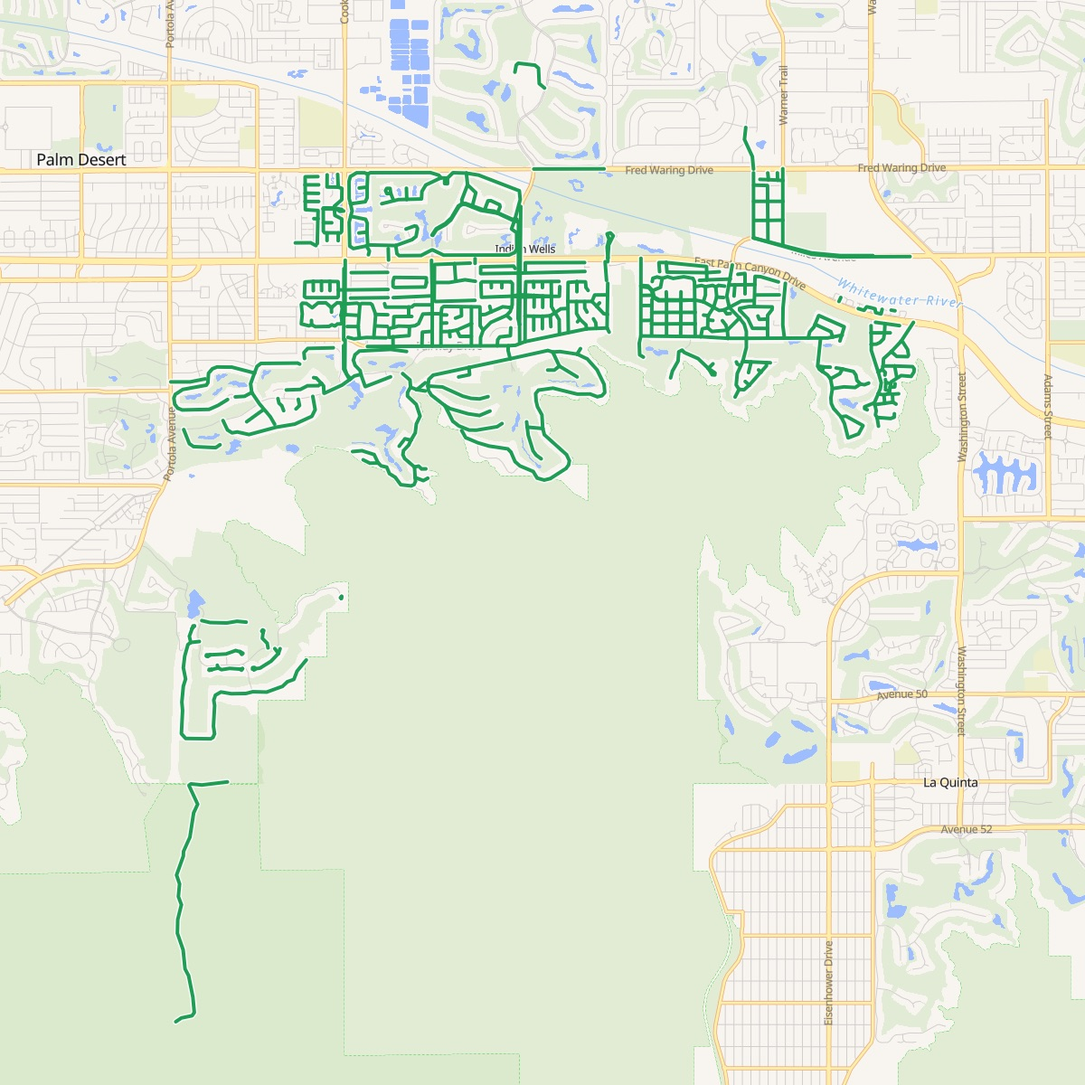
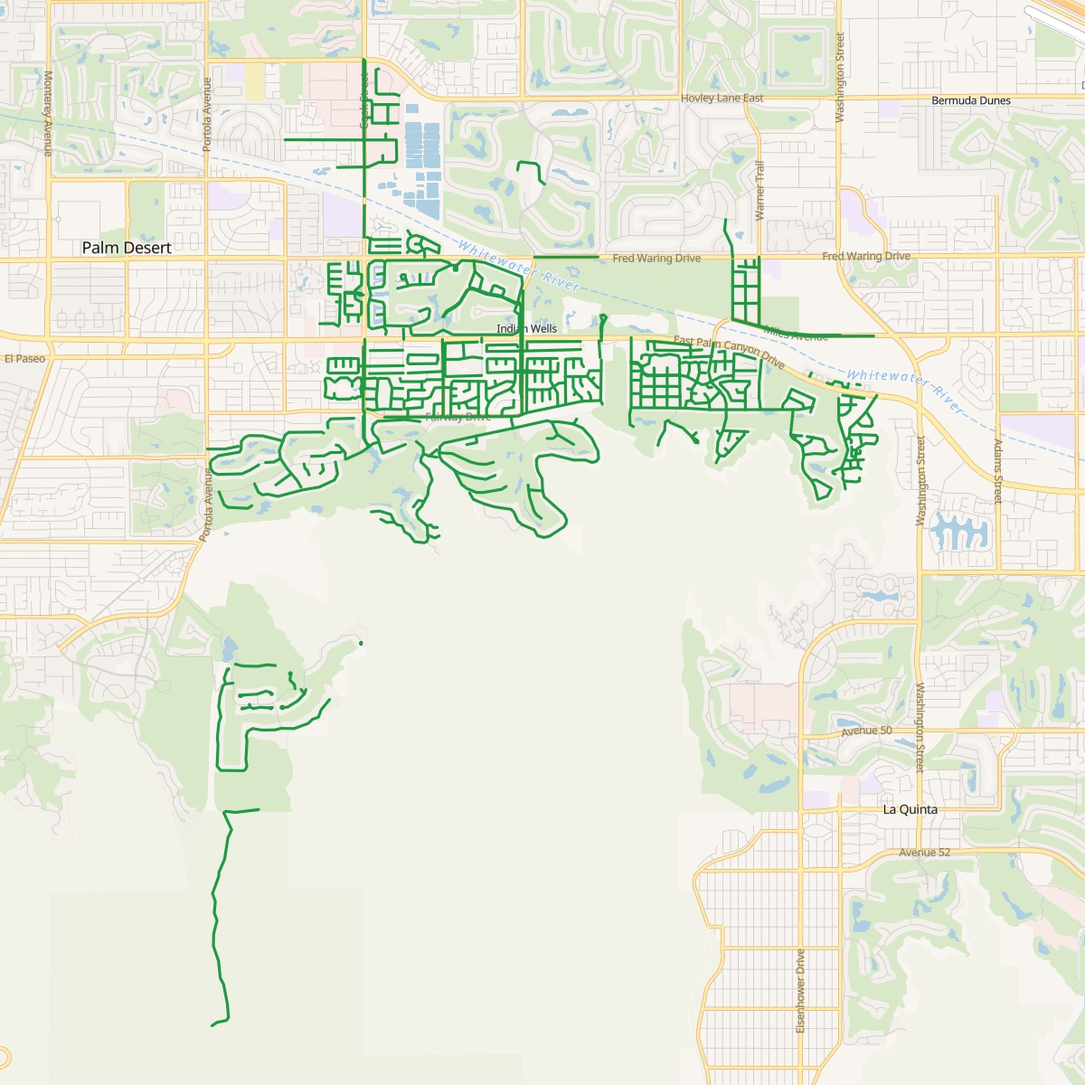
Rancho Mirage and Indian Wells: new carrier routes, report pages, maps
Rancho Mirage: 92270-C009, C014, C015, C019, C020, C021, C027 (4,976 homes).
Indian Wells: all 7 routes in 92210 plus 92211-C050 (4,925 homes).

diff --git a/data/routes.js b/data/routes.js
@@ -2,15 +2,15 @@
    The USPS carrier routes behind each postcard, in the format the 9x12 Method print team and planner use (ZIP-route, e.g. 92260-C008).
    status: "live" = card is booking now; "waitlist" = planned card shown as "Join waitlist" on the coverage map.
    homes = homes-only count (order these as "Homes only"); doors = every-door count (homes + businesses).
-   Counts are from USPS EDDM data pulled 2026-11-11. USPS updates counts over time, so re-check in the planner before each order.
+   Counts are from USPS EDDM data pulled 2026-11-11 (Indio and La Quinta 2026-11-18, Rancho Mirage and Indian Wells 2026-11-27). USPS updates counts over time, so re-check in the planner before each order.
    Read by assets/admin-routes.js (Spotlight HQ > Mail routes). One card per line. */
 window.CVS_ROUTES = [
   {"id": "el-paseo", "name": "Palm Desert - El Paseo Area", "city": "Palm Desert", "status": "live", "homes": 4968, "doors": 5354, "postOffices": ["Palm Desert"], "routes": [{"r": "92260-C008", "homes": 186, "doors": 526, "po": "Palm Desert"}, {"r": "92260-C009", "homes": 695, "doors": 697, "po": "Palm Desert"}, {"r": "92260-C012", "homes": 914, "doors": 917, "po": "Palm Desert"}, {"r": "92260-C019", "homes": 521, "doors": 524, "po": "Palm Desert"}, {"r": "92260-C030", "homes": 760, "doors": 763, "po": "Palm Desert"}, {"r": "92260-C031", "homes": 698, "doors": 706, "po": "Palm Desert"}, {"r": "92260-C061", "homes": 670, "doors": 672, "po": "Palm Desert"}, {"r": "92260-C067", "homes": 524, "doors": 549, "po": "Palm Desert"}]},
   {"id": "sun-city-palm-desert", "name": "Palm Desert - Sun City", "city": "Palm Desert", "status": "live", "homes": 4829, "doors": 4876, "postOffices": ["Palm Desert"], "routes": [{"r": "92211-R080", "homes": 708, "doors": 708, "po": "Palm Desert"}, {"r": "92211-R081", "homes": 683, "doors": 683, "po": "Palm Desert"}, {"r": "92211-R082", "homes": 603, "doors": 603, "po": "Palm Desert"}, {"r": "92211-R083", "homes": 586, "doors": 586, "po": "Palm Desert"}, {"r": "92211-R086", "homes": 507, "doors": 510, "po": "Palm Desert"}, {"r": "92211-R087", "homes": 540, "doors": 584, "po": "Palm Desert"}, {"r": "92211-R088", "homes": 581, "doors": 581, "po": "Palm Desert"}, {"r": "92211-R089", "homes": 621, "doors": 621, "po": "Palm Desert"}]},
   {"id": "palm-springs", "name": "Palm Springs", "city": "Palm Springs", "status": "live", "homes": 4979, "doors": 5196, "postOffices": ["Palm Springs"], "routes": [{"r": "92262-C005", "homes": 744, "doors": 794, "po": "Palm Springs"}, {"r": "92262-C012", "homes": 137, "doors": 137, "po": "Palm Springs"}, {"r": "92262-C028", "homes": 914, "doors": 958, "po": "Palm Springs"}, {"r": "92262-C070", "homes": 674, "doors": 783, "po": "Palm Springs"}, {"r": "92264-C006", "homes": 851, "doors": 853, "po": "Palm Springs"}, {"r": "92264-C022", "homes": 836, "doors": 846, "po": "Palm Springs"}, {"r": "92264-C029", "homes": 823, "doors": 825, "po": "Palm Springs"}]},
   {"id": "cathedral-city", "name": "Cathedral City", "city": "Cathedral City", "status": "live", "homes": 4993, "doors": 5253, "postOffices": ["Cathedral City"], "routes": [{"r": "92234-C038", "homes": 585, "doors": 781, "po": "Cathedral City"}, {"r": "92234-C041", "homes": 684, "doors": 684, "po": "Cathedral City"}, {"r": "92234-C059", "homes": 925, "doors": 926, "po": "Cathedral City"}, {"r": "92234-C063", "homes": 948, "doors": 951, "po": "Cathedral City"}, {"r": "92234-C072", "homes": 729, "doors": 755, "po": "Cathedral City"}, {"r": "92234-C074", "homes": 1122, "doors": 1156, "po": "Cathedral City"}]},
-  {"id": "rancho-mirage", "name": "Rancho Mirage", "city": "Rancho Mirage", "status": "live", "homes": 4976, "doors": 5156, "postOffices": ["Rancho Mirage"], "routes": [{"r": "92270-C005", "homes": 652, "doors": 655, "po": "Rancho Mirage"}, {"r": "92270-C008", "homes": 755, "doors": 760, "po": "Rancho Mirage"}, {"r": "92270-C009", "homes": 603, "doors": 607, "po": "Rancho Mirage"}, {"r": "92270-C012", "homes": 474, "doors": 486, "po": "Rancho Mirage"}, {"r": "92270-C014", "homes": 508, "doors": 510, "po": "Rancho Mirage"}, {"r": "92270-C019", "homes": 710, "doors": 764, "po": "Rancho Mirage"}, {"r": "92270-C020", "homes": 780, "doors": 780, "po": "Rancho Mirage"}, {"r": "92270-C026", "homes": 494, "doors": 594, "po": "Rancho Mirage"}]},
-  {"id": "indian-wells", "name": "Indian Wells", "city": "Indian Wells", "status": "live", "homes": 4461, "doors": 4598, "postOffices": ["Palm Desert"], "routes": [{"r": "92210-C007", "homes": 103, "doors": 129, "po": "Palm Desert"}, {"r": "92210-C010", "homes": 738, "doors": 740, "po": "Palm Desert"}, {"r": "92210-C038", "homes": 1172, "doors": 1177, "po": "Palm Desert"}, {"r": "92210-C039", "homes": 589, "doors": 590, "po": "Palm Desert"}, {"r": "92210-C040", "homes": 550, "doors": 551, "po": "Palm Desert"}, {"r": "92210-C059", "homes": 618, "doors": 716, "po": "Palm Desert"}, {"r": "92210-C063", "homes": 691, "doors": 695, "po": "Palm Desert"}]},
+  {"id": "rancho-mirage", "name": "Rancho Mirage", "city": "Rancho Mirage", "status": "live", "homes": 4976, "doors": 5061, "postOffices": ["Rancho Mirage"], "routes": [{"r": "92270-C009", "homes": 603, "doors": 607, "po": "Rancho Mirage"}, {"r": "92270-C014", "homes": 508, "doors": 510, "po": "Rancho Mirage"}, {"r": "92270-C015", "homes": 632, "doors": 651, "po": "Rancho Mirage"}, {"r": "92270-C019", "homes": 711, "doors": 765, "po": "Rancho Mirage"}, {"r": "92270-C020", "homes": 780, "doors": 780, "po": "Rancho Mirage"}, {"r": "92270-C021", "homes": 906, "doors": 911, "po": "Rancho Mirage"}, {"r": "92270-C027", "homes": 836, "doors": 837, "po": "Rancho Mirage"}]},
+  {"id": "indian-wells", "name": "Indian Wells", "city": "Indian Wells", "status": "live", "homes": 4925, "doors": 5393, "postOffices": ["Palm Desert"], "routes": [{"r": "92210-C007", "homes": 103, "doors": 129, "po": "Palm Desert"}, {"r": "92210-C010", "homes": 738, "doors": 740, "po": "Palm Desert"}, {"r": "92210-C038", "homes": 1173, "doors": 1178, "po": "Palm Desert"}, {"r": "92210-C039", "homes": 589, "doors": 590, "po": "Palm Desert"}, {"r": "92210-C040", "homes": 544, "doors": 545, "po": "Palm Desert"}, {"r": "92210-C059", "homes": 604, "doors": 702, "po": "Palm Desert"}, {"r": "92210-C063", "homes": 690, "doors": 694, "po": "Palm Desert"}, {"r": "92211-C050", "homes": 484, "doors": 815, "po": "Palm Desert"}]},
   {"id": "la-quinta", "name": "La Quinta", "city": "La Quinta", "status": "live", "homes": 4916, "doors": 4958, "postOffices": ["La Quinta"], "routes": [{"r": "92253-C044", "homes": 764, "doors": 768, "po": "La Quinta"}, {"r": "92253-C046", "homes": 1269, "doors": 1270, "po": "La Quinta"}, {"r": "92253-C010", "homes": 784, "doors": 802, "po": "La Quinta"}, {"r": "92253-C006", "homes": 429, "doors": 430, "po": "La Quinta"}, {"r": "92253-C004", "homes": 925, "doors": 938, "po": "La Quinta"}, {"r": "92253-R002", "homes": 745, "doors": 750, "po": "La Quinta"}]},
   {"id": "la-quinta-pga-west", "name": "La Quinta - PGA West", "city": "La Quinta", "status": "live", "homes": 4677, "doors": 4700, "postOffices": ["La Quinta"], "routes": [{"r": "92253-C002", "homes": 1121, "doors": 1125, "po": "La Quinta"}, {"r": "92253-C022", "homes": 1027, "doors": 1032, "po": "La Quinta"}, {"r": "92253-R001", "homes": 883, "doors": 886, "po": "La Quinta"}, {"r": "92253-R005", "homes": 862, "doors": 869, "po": "La Quinta"}, {"r": "92253-R004", "homes": 784, "doors": 788, "po": "La Quinta"}]},
   {"id": "indio", "name": "Indio - Sun City Shadow Hills", "city": "Indio", "status": "live", "homes": 4791, "doors": 4823, "postOffices": ["La Quinta"], "routes": [{"r": "92203-R104", "homes": 722, "doors": 722, "po": "La Quinta"}, {"r": "92203-R106", "homes": 694, "doors": 718, "po": "La Quinta"}, {"r": "92203-R108", "homes": 706, "doors": 709, "po": "La Quinta"}, {"r": "92203-R109", "homes": 938, "doors": 938, "po": "La Quinta"}, {"r": "92203-R105", "homes": 874, "doors": 879, "po": "La Quinta"}, {"r": "92203-R110", "homes": 857, "doors": 857, "po": "La Quinta"}]},

diff --git a/mailing-area-rancho-mirage.html b/mailing-area-rancho-mirage.html
@@ -25,7 +25,7 @@
 <meta name="viewport" content="width=device-width, initial-scale=1">
 <script type="text/javascript">(function(i,m,p,a,c,t){c.ire_o=p;c[p]=c[p]||function(){(c[p].a=c[p].a||[]).push(arguments)};t=a.createElement(m);var z=a.getElementsByTagName(m)[0];t.async=1;t.src=i;z.parentNode.insertBefore(t,z)})('https://utt.impactcdn.com/P-A8063333-b369-4de8-a2dd-14aeee36646f1.js','script','impactStat',document,window);impactStat('transformLinks');impactStat('trackImpression');</script>
 <title>Rancho Mirage Mailing Area Report | Coachella Valley Spotlight</title>
-<meta name="description" content="Who the Rancho Mirage Spotlight postcard would reach: 4,976 homes on 8 USPS carrier routes, income, home values and more for zip code 92270.">
+<meta name="description" content="Who the Rancho Mirage Spotlight postcard would reach: 4,976 homes on 7 USPS carrier routes, income, home values and more for zip code 92270.">
 <link rel="canonical" href="https://coachellavalleyspotlight.com/mailing-area-rancho-mirage">
 <meta property="og:url" content="https://coachellavalleyspotlight.com/mailing-area-rancho-mirage">
 <meta property="og:type" content="website">
@@ -53,14 +53,13 @@
 <a class="more" href="coverage-map?route=rancho-mirage">&larr; Back to the coverage map</a>
 <span class="eyebrow" style="margin-top:24px"><span class="stripe-mini"></span>Mailing area report &middot; Rancho Mirage</span>
 <h1>Who This Mailing <span class="grad">Would Reach.</span></h1>
-<p>8 USPS carrier routes in Rancho Mirage &middot; Zip code 92270. Established, higher-income neighborhoods where people stay put. A strong fit for home services, medical and wellness, financial advisors and restaurants.</p>
+<p>7 USPS carrier routes in Rancho Mirage &middot; Zip code 92270. One block of established, higher-income neighborhoods around Mission Hills, from Da Vall Drive to Bob Hope Drive and Country Club Drive north to Ramon Road. A strong fit for home services, medical and wellness, financial advisors and restaurants.</p>
 <p class="cov-muted" style="margin-top:8px"><b>Booking now.</b> First mailing Thu, Jan 21, 2027 (artwork due Mon, Jan 11), then Feb 18 and Mar 18. There&rsquo;s one business per category. <a href="mailing-calendar">See every date</a>.</p>
-<div class="stats" style="grid-template-columns:repeat(2,1fr);margin-top:24px"><div class="stat"><b>4,976</b><span>homes reached</span></div><div class="stat"><b>8</b><span>USPS carrier routes</span></div></div>
+<div class="stats" style="grid-template-columns:repeat(2,1fr);margin-top:24px"><div class="stat"><b>4,976</b><span>homes reached</span></div><div class="stat"><b>7</b><span>USPS carrier routes</span></div></div>
 <figure class="route-map"><img src="assets/img/routes/rancho-mirage-map.jpg" alt="Map of the Rancho Mirage mailing area, with the selected carrier routes drawn in green" width="1200" height="1200" loading="lazy"><figcaption>The selected carrier routes, drawn in green. Map: OpenFreeMap, &copy; OpenMapTiles, data &copy; OpenStreetMap contributors.</figcaption></figure>
 <h2 class="month-head"><span class="stripe-mini"></span>The households on this route</h2>
-<div class="stats" style="grid-template-columns:repeat(3,1fr)"><div class="stat"><span>Median household income</span><b style="margin-top:8px">$132K</b></div><div class="stat"><span>Median home value</span><b style="margin-top:8px">$801K</b></div><div class="stat"><span>Owner-occupied homes</span><b style="margin-top:8px">88%</b></div><div class="stat"><span>Single-family houses</span><b style="margin-top:8px">50%</b></div><div class="stat"><span>Households with kids</span><b style="margin-top:8px">7%</b></div><div class="stat"><span>Median age</span><b style="margin-top:8px">69.1</b></div></div>
-<p class="cov-muted" style="margin-top:12px;font-size:14px">Homes: USPS Every Door Direct Mail counts. Households: U.S. Census Bureau, American Community Survey 2020&ndash;2024 5-year estimates for the neighborhoods these routes run through, weighted by homes on each route. Carrier routes: 92270-C005, 92270-C008, 92270-C009, 92270-C012, 92270-C014, 92270-C019, 92270-C020, 92270-C026. Cards drop at the Rancho Mirage Post Office.</p>
-<p style="margin-top:12px"><a class="more" href="assets/reports/rancho-mirage-mailing-area-report.pdf" target="_blank" rel="noopener">Download the full report, route by route (PDF) &rarr;</a></p>
+<div class="stats" style="grid-template-columns:repeat(3,1fr)"><div class="stat"><span>Median household income</span><b style="margin-top:8px">$125K</b></div><div class="stat"><span>Median home value</span><b style="margin-top:8px">$830K</b></div><div class="stat"><span>Owner-occupied homes</span><b style="margin-top:8px">93%</b></div><div class="stat"><span>Single-family houses</span><b style="margin-top:8px">63%</b></div><div class="stat"><span>Households with kids</span><b style="margin-top:8px">3%</b></div><div class="stat"><span>Median age</span><b style="margin-top:8px">69.1</b></div></div>
+<p class="cov-muted" style="margin-top:12px;font-size:14px">Homes: USPS Every Door Direct Mail counts. Households: U.S. Census Bureau, American Community Survey 2020&ndash;2024 5-year estimates for the neighborhoods these routes run through, weighted by homes on each route. Carrier routes: 92270-C009, 92270-C014, 92270-C015, 92270-C019, 92270-C020, 92270-C021, 92270-C027. Cards drop at the Rancho Mirage Post Office.</p>
 <div class="cta-row" style="margin-top:32px"><a class="btn" href="reserve?route=rancho-mirage&amp;mail=2027-01-21">Hold my Rancho Mirage spot</a><a class="btn btn-ghost" href="tel:+17604225475">Call (760) 422-5475</a></div>
 </div></section>
 </main>

diff --git a/mailing-area-indian-wells.html b/mailing-area-indian-wells.html
@@ -25,7 +25,7 @@
 <meta name="viewport" content="width=device-width, initial-scale=1">
 <script type="text/javascript">(function(i,m,p,a,c,t){c.ire_o=p;c[p]=c[p]||function(){(c[p].a=c[p].a||[]).push(arguments)};t=a.createElement(m);var z=a.getElementsByTagName(m)[0];t.async=1;t.src=i;z.parentNode.insertBefore(t,z)})('https://utt.impactcdn.com/P-A8063333-b369-4de8-a2dd-14aeee36646f1.js','script','impactStat',document,window);impactStat('transformLinks');impactStat('trackImpression');</script>
 <title>Indian Wells Mailing Area Report | Coachella Valley Spotlight</title>
-<meta name="description" content="Who the Indian Wells Spotlight postcard would reach: 4,461 homes on 7 USPS carrier routes, income, home values and more for zip code 92210.">
+<meta name="description" content="Who the Indian Wells Spotlight postcard would reach: 4,925 homes on 8 USPS carrier routes, income, home values and more for zip codes 92210 and 92211.">
 <link rel="canonical" href="https://coachellavalleyspotlight.com/mailing-area-indian-wells">
 <meta property="og:url" content="https://coachellavalleyspotlight.com/mailing-area-indian-wells">
 <meta property="og:type" content="website">
@@ -53,14 +53,13 @@
 <a class="more" href="coverage-map?route=indian-wells">&larr; Back to the coverage map</a>
 <span class="eyebrow" style="margin-top:24px"><span class="stripe-mini"></span>Mailing area report &middot; Indian Wells</span>
 <h1>Who This Mailing <span class="grad">Would Reach.</span></h1>
-<p>7 USPS carrier routes in Indian Wells &middot; Zip code 92210. Every home in Indian Wells, one of the valley's highest-income cities. A strong fit for home services, medical and wellness, financial advisors and golf.</p>
+<p>8 USPS carrier routes &middot; Zip codes 92210 and 92211. Every home in Indian Wells, one of the valley's highest-income cities, plus the Palm Desert neighborhood along Cook Street north of Highway 111. A strong fit for home services, medical and wellness, financial advisors and golf.</p>
 <p class="cov-muted" style="margin-top:8px"><b>Booking now.</b> First mailing Thu, Jan 21, 2027 (artwork due Mon, Jan 11), then Feb 18 and Mar 18. There&rsquo;s one business per category. <a href="mailing-calendar">See every date</a>.</p>
-<div class="stats" style="grid-template-columns:repeat(2,1fr);margin-top:24px"><div class="stat"><b>4,461</b><span>homes reached</span></div><div class="stat"><b>7</b><span>USPS carrier routes</span></div></div>
+<div class="stats" style="grid-template-columns:repeat(2,1fr);margin-top:24px"><div class="stat"><b>4,925</b><span>homes reached</span></div><div class="stat"><b>8</b><span>USPS carrier routes</span></div></div>
 <figure class="route-map"><img src="assets/img/routes/indian-wells-map.jpg" alt="Map of the Indian Wells mailing area, with the selected carrier routes drawn in green" width="1200" height="1200" loading="lazy"><figcaption>The selected carrier routes, drawn in green. Map: OpenFreeMap, &copy; OpenMapTiles, data &copy; OpenStreetMap contributors.</figcaption></figure>
 <h2 class="month-head"><span class="stripe-mini"></span>The households on this route</h2>
-<div class="stats" style="grid-template-columns:repeat(3,1fr)"><div class="stat"><span>Median household income</span><b style="margin-top:8px">$168K</b></div><div class="stat"><span>Median home value</span><b style="margin-top:8px">$990K</b></div><div class="stat"><span>Owner-occupied homes</span><b style="margin-top:8px">83%</b></div><div class="stat"><span>Single-family houses</span><b style="margin-top:8px">56%</b></div><div class="stat"><span>Households with kids</span><b style="margin-top:8px">9%</b></div><div class="stat"><span>Median age</span><b style="margin-top:8px">65.5</b></div></div>
-<p class="cov-muted" style="margin-top:12px;font-size:14px">Homes: USPS Every Door Direct Mail counts. Households: U.S. Census Bureau, American Community Survey 2020&ndash;2024 5-year estimates for the neighborhoods these routes run through, weighted by homes on each route. Carrier routes: 92210-C007, 92210-C010, 92210-C038, 92210-C039, 92210-C040, 92210-C059, 92210-C063. Cards drop at the Palm Desert Post Office.</p>
-<p style="margin-top:12px"><a class="more" href="assets/reports/indian-wells-mailing-area-report.pdf" target="_blank" rel="noopener">Download the full report, route by route (PDF) &rarr;</a></p>
+<div class="stats" style="grid-template-columns:repeat(3,1fr)"><div class="stat"><span>Median household income</span><b style="margin-top:8px">$165K</b></div><div class="stat"><span>Median home value</span><b style="margin-top:8px">$1.01M</b></div><div class="stat"><span>Owner-occupied homes</span><b style="margin-top:8px">83%</b></div><div class="stat"><span>Single-family houses</span><b style="margin-top:8px">56%</b></div><div class="stat"><span>Households with kids</span><b style="margin-top:8px">9%</b></div><div class="stat"><span>Median age</span><b style="margin-top:8px">64.5</b></div></div>
+<p class="cov-muted" style="margin-top:12px;font-size:14px">Homes: USPS Every Door Direct Mail counts. Households: U.S. Census Bureau, American Community Survey 2020&ndash;2024 5-year estimates for the neighborhoods these routes run through, weighted by homes on each route. Carrier routes: 92210-C007, 92210-C010, 92210-C038, 92210-C039, 92210-C040, 92210-C059, 92210-C063, 92211-C050. Cards drop at the Palm Desert Post Office.</p>
 <div class="cta-row" style="margin-top:32px"><a class="btn" href="reserve?route=indian-wells&amp;mail=2027-01-21">Hold my Indian Wells spot</a><a class="btn btn-ghost" href="tel:+17604225475">Call (760) 422-5475</a></div>
 </div></section>
 </main>

diff --git a/data/mailings.js b/data/mailings.js
@@ -17,7 +17,7 @@ window.CVS_MAILINGS = [
   {"route":"palm-springs","name":"Palm Springs","area":"Palm Springs 92262 · 92264","homes":"4,979 homes","mail":"2027-01-21","deadline":"2027-01-11","minSold":8,"format":"9x12","minDollars":2625},
   {"route":"cathedral-city","name":"Cathedral City","area":"Cathedral City 92234","homes":"4,993 homes","mail":"2027-01-21","deadline":"2027-01-11","minSold":8,"format":"9x12","minDollars":2625},
   {"route":"rancho-mirage","name":"Rancho Mirage","area":"Rancho Mirage 92270","homes":"4,976 homes","mail":"2027-01-21","deadline":"2027-01-11","minSold":8,"format":"9x12","minDollars":2625},
-  {"route":"indian-wells","name":"Indian Wells","area":"Indian Wells 92210","homes":"4,461 homes","mail":"2027-01-21","deadline":"2027-01-11","minSold":8,"format":"9x12","minDollars":2625},
+  {"route":"indian-wells","name":"Indian Wells","area":"Indian Wells 92210","homes":"4,925 homes","mail":"2027-01-21","deadline":"2027-01-11","minSold":8,"format":"9x12","minDollars":2625},
   {"route":"la-quinta","name":"La Quinta","area":"La Quinta 92253","homes":"4,916 homes","mail":"2027-01-21","deadline":"2027-01-11","minSold":8,"format":"9x12","minDollars":2625},
   {"route":"la-quinta-pga-west","name":"La Quinta - PGA West","area":"La Quinta 92253, PGA West","homes":"4,677 homes","mail":"2027-01-21","deadline":"2027-01-11","minSold":8,"format":"9x12","minDollars":2625},
   {"route":"indio","name":"Indio - Sun City Shadow Hills","area":"Indio 92203","homes":"4,791 homes","mail":"2027-01-21","deadline":"2027-01-11","minSold":8,"format":"9x12","minDollars":2625},
@@ -28,7 +28,7 @@ window.CVS_MAILINGS = [
   {"route":"palm-springs","name":"Palm Springs","area":"Palm Springs 92262 · 92264","homes":"4,979 homes","mail":"2027-02-18","deadline":"2027-02-08","minSold":8,"format":"9x12","minDollars":2625},
   {"route":"cathedral-city","name":"Cathedral City","area":"Cathedral City 92234","homes":"4,993 homes","mail":"2027-02-18","deadline":"2027-02-08","minSold":8,"format":"9x12","minDollars":2625},
   {"route":"rancho-mirage","name":"Rancho Mirage","area":"Rancho Mirage 92270","homes":"4,976 homes","mail":"2027-02-18","deadline":"2027-02-08","minSold":8,"format":"9x12","minDollars":2625},
-  {"route":"indian-wells","name":"Indian Wells","area":"Indian Wells 92210","homes":"4,461 homes","mail":"2027-02-18","deadline":"2027-02-08","minSold":8,"format":"9x12","minDollars":2625},
+  {"route":"indian-wells","name":"Indian Wells","area":"Indian Wells 92210","homes":"4,925 homes","mail":"2027-02-18","deadline":"2027-02-08","minSold":8,"format":"9x12","minDollars":2625},
   {"route":"la-quinta","name":"La Quinta","area":"La Quinta 92253","homes":"4,916 homes","mail":"2027-02-18","deadline":"2027-02-08","minSold":8,"format":"9x12","minDollars":2625},
   {"route":"la-quinta-pga-west","name":"La Quinta - PGA West","area":"La Quinta 92253, PGA West","homes":"4,677 homes","mail":"2027-02-18","deadline":"2027-02-08","minSold":8,"format":"9x12","minDollars":2625},
   {"route":"indio","name":"Indio - Sun City Shadow Hills","area":"Indio 92203","homes":"4,791 homes","mail":"2027-02-18","deadline":"2027-02-08","minSold":8,"format":"9x12","minDollars":2625},
@@ -39,7 +39,7 @@ window.CVS_MAILINGS = [
   {"route":"palm-springs","name":"Palm Springs","area":"Palm Springs 92262 · 92264","homes":"4,979 homes","mail":"2027-03-18","deadline":"2027-03-08","minSold":8,"format":"9x12","minDollars":2625},
   {"route":"cathedral-city","name":"Cathedral City","area":"Cathedral City 92234","homes":"4,993 homes","mail":"2027-03-18","deadline":"2027-03-08","minSold":8,"format":"9x12","minDollars":2625},
   {"route":"rancho-mirage","name":"Rancho Mirage","area":"Rancho Mirage 92270","homes":"4,976 homes","mail":"2027-03-18","deadline":"2027-03-08","minSold":8,"format":"9x12","minDollars":2625},
-  {"route":"indian-wells","name":"Indian Wells","area":"Indian Wells 92210","homes":"4,461 homes","mail":"2027-03-18","deadline":"2027-03-08","minSold":8,"format":"9x12","minDollars":2625},
+  {"route":"indian-wells","name":"Indian Wells","area":"Indian Wells 92210","homes":"4,925 homes","mail":"2027-03-18","deadline":"2027-03-08","minSold":8,"format":"9x12","minDollars":2625},
   {"route":"la-quinta","name":"La Quinta","area":"La Quinta 92253","homes":"4,916 homes","mail":"2027-03-18","deadline":"2027-03-08","minSold":8,"format":"9x12","minDollars":2625},
   {"route":"la-quinta-pga-west","name":"La Quinta - PGA West","area":"La Quinta 92253, PGA West","homes":"4,677 homes","mail":"2027-03-18","deadline":"2027-03-08","minSold":8,"format":"9x12","minDollars":2625},
   {"route":"indio","name":"Indio - Sun City Shadow Hills","area":"Indio 92203","homes":"4,791 homes","mail":"2027-03-18","deadline":"2027-03-08","minSold":8,"format":"9x12","minDollars":2625},

diff --git a/coverage-map.html b/coverage-map.html
@@ -189,7 +189,7 @@
 <div class="footer-base"><span>&copy; 2026 Coachella Valley Spotlight, a brand of MoreViews Pro LLC. Made in the desert.</span><span><a href="legal#privacy">Privacy</a> &middot; <a href="legal#terms">Terms</a> &middot; <a href="legal#disclaimer">Disclaimer</a></span></div>
 </div></footer>
 <script src="data/events.js"></script><script src="data/feed-events.js"></script><script src="data/deals.js"></script><script src="data/news.js"></script><script src="data/headlines.js"></script><script src="data/directory.js"></script><script src="assets/app.js?v=20261126qr"></script>
-<script src="data/mailings.js?v=20261121fh"></script><script src="data/formats.js?v=20261122pl"></script><script src="data/hidden-routes.js?v=20261118q"></script>
+<script src="data/mailings.js?v=20261127r"></script><script src="data/formats.js?v=20261122pl"></script><script src="data/hidden-routes.js?v=20261118q"></script>
 <script>
 (function () {
   var API = "https://local-spotlight-reservations.toddstpierre.workers.dev";
@@ -201,8 +201,8 @@
     { id: "sun-city-palm-desert", name: "Palm Desert - Sun City", town: "Palm Desert", zip: "92211", x: 58, y: 42, w: 10, h: 14, area: "mailing-area-sun-city", blurb: "The 55-plus golf community north of I-10, where homeowners stay put and buy local." },
     { id: "palm-springs", name: "Palm Springs", town: "Palm Springs", zip: "92262 &middot; 92264", homes: "4,979", x: 12, y: 45, w: 10, h: 14, area: "mailing-area-palm-springs", blurb: "Seven carrier routes across Palm Springs' north end, east of downtown and the south end of town. Join the waitlist to get first pick of categories." },
     { id: "cathedral-city", name: "Cathedral City", town: "Cathedral City", zip: "92234", homes: "4,993", x: 25, y: 53, w: 9, h: 12, area: "mailing-area-cathedral-city", blurb: "Six carrier routes in Cathedral City's family neighborhoods. Join the waitlist to get first pick of categories." },
-    { id: "rancho-mirage", name: "Rancho Mirage", town: "Rancho Mirage", zip: "92270", homes: "4,976", x: 35, y: 67, w: 9, h: 12, area: "mailing-area-rancho-mirage", blurb: "Eight carrier routes in Rancho Mirage's established, higher-income neighborhoods. Join the waitlist to get first pick of categories." },
-    { id: "indian-wells", name: "Indian Wells", town: "Indian Wells", zip: "92210", homes: "4,461", x: 56, y: 63, w: 8, h: 10, area: "mailing-area-indian-wells", blurb: "Every home in Indian Wells, all seven carrier routes. Join the waitlist to get first pick of categories." },
+    { id: "rancho-mirage", name: "Rancho Mirage", town: "Rancho Mirage", zip: "92270", homes: "4,976", x: 35, y: 67, w: 9, h: 12, area: "mailing-area-rancho-mirage", blurb: "One block of Rancho Mirage from Da Vall Drive to Bob Hope Drive, Country Club Drive north to Ramon Road, around Mission Hills. Join the waitlist to get first pick of categories." },
+    { id: "indian-wells", name: "Indian Wells", town: "Indian Wells", zip: "92210 &middot; 92211", homes: "4,925", x: 56, y: 63, w: 8, h: 10, area: "mailing-area-indian-wells", blurb: "Every home in Indian Wells, plus the Palm Desert neighborhood along Cook Street north of Highway 111. Join the waitlist to get first pick of categories." },
     { id: "la-quinta", name: "La Quinta", town: "La Quinta", zip: "92253", homes: "4,916", x: 61, y: 79, w: 10, h: 13, area: "mailing-area-la-quinta", blurb: "One block of La Quinta from Washington to Jefferson, Avenue 48 to 52: gated golf communities and some of the highest-income streets in the valley." },
     { id: "la-quinta-pga-west", name: "La Quinta - PGA West", town: "La Quinta", zip: "92253", homes: "4,677", x: 74, y: 91, w: 10, h: 12, area: "mailing-area-la-quinta-pga-west", blurb: "PGA West and the gated golf communities around it, Avenue 52 to 60 between Jefferson and Monroe. The highest home values on any Spotlight card." },
     { id: "indio", name: "Indio - Sun City Shadow Hills", town: "Indio", zip: "92203", homes: "4,791", x: 78, y: 52, w: 10, h: 14, area: "mailing-area-indio", blurb: "Six carrier routes in one block of north Indio, Avenue 39 to 42, including Sun City Shadow Hills, where nearly every home is a single-family house its owner lives in." },

diff --git a/stats.html b/stats.html
@@ -194,6 +194,6 @@
 <nav class="footer-towns" aria-label="Towns"><h4>Towns</h4><ul><li><a href="city/bermuda-dunes/">Bermuda Dunes</a></li><li><a href="city/cathedral-city/">Cathedral City</a></li><li><a href="city/coachella/">Coachella</a></li><li><a href="city/desert-hot-springs/">Desert Hot Springs</a></li><li><a href="city/indian-wells/">Indian Wells</a></li><li><a href="city/indio/">Indio</a></li><li><a href="city/la-quinta/">La Quinta</a></li><li><a href="city/palm-desert/">Palm Desert</a></li><li><a href="city/palm-springs/">Palm Springs</a></li><li><a href="city/rancho-mirage/">Rancho Mirage</a></li><li><a href="city/thousand-palms/">Thousand Palms</a></li></ul></nav>
 <div class="footer-base"><span>&copy; 2026 Coachella Valley Spotlight, a brand of MoreViews Pro LLC. Made in the desert.</span><span><a href="legal#privacy">Privacy</a> &middot; <a href="legal#terms">Terms</a> &middot; <a href="legal#disclaimer">Disclaimer</a></span></div>
 </div></footer>
-<script src="data/directory.js"></script><script src="assets/app.js?v=20261126qr"></script><script src="assets/admin-owners.js?v=20261103b"></script><script src="data/mailings.js?v=20261121fh"></script><script src="data/formats.js?v=20261122pl"></script><script src="assets/admin-mailings.js?v=20261121fh"></script><script src="assets/admin-money.js?v=20261118q"></script><script src="assets/admin-signups.js?v=20261106a"></script><script src="assets/admin-backup.js?v=20261103a"></script><script src="assets/admin-submissions.js?v=20261127ls"></script><script src="data/deals.js"></script><script src="assets/admin-cockpit.js?v=20261121fh"></script><script src="assets/admin-reports.js?v=20261121op"></script><script src="assets/admin-results.js?v=20261123hq"></script><script src="data/routes.js?v=20261118q"></script><script src="assets/admin-routes.js?v=20261111a"></script><script src="assets/admin-hq.js?v=20261118q"></script><script src="assets/admin-board.js?v=20261121fh"></script><script src="assets/admin-campaigns.js?v=20261121pb"></script><script src="assets/admin-overview.js?v=20261121fh"></script><script src="assets/admin-listing-edit.js?v=20261109hq"></script><script src="assets/admin-advertisers.js?v=20261121av"></script><script src="assets/admin-nav.js?v=20261121op"></script><script src="data/qr-codes.js"></script><script src="assets/admin-qr.js?v=20261123hq"></script><script src="assets/stats-report.js?v=20261111mm"></script>
+<script src="data/directory.js"></script><script src="assets/app.js?v=20261126qr"></script><script src="assets/admin-owners.js?v=20261103b"></script><script src="data/mailings.js?v=20261127r"></script><script src="data/formats.js?v=20261122pl"></script><script src="assets/admin-mailings.js?v=20261121fh"></script><script src="assets/admin-money.js?v=20261118q"></script><script src="assets/admin-signups.js?v=20261106a"></script><script src="assets/admin-backup.js?v=20261103a"></script><script src="assets/admin-submissions.js?v=20261127ls"></script><script src="data/deals.js"></script><script src="assets/admin-cockpit.js?v=20261121fh"></script><script src="assets/admin-reports.js?v=20261121op"></script><script src="assets/admin-results.js?v=20261123hq"></script><script src="data/routes.js?v=20261127r"></script><script src="assets/admin-routes.js?v=20261111a"></script><script src="assets/admin-hq.js?v=20261118q"></script><script src="assets/admin-board.js?v=20261121fh"></script><script src="assets/admin-campaigns.js?v=20261121pb"></script><script src="assets/admin-overview.js?v=20261121fh"></script><script src="assets/admin-listing-edit.js?v=20261109hq"></script><script src="assets/admin-advertisers.js?v=20261121av"></script><script src="assets/admin-nav.js?v=20261121op"></script><script src="data/qr-codes.js"></script><script src="assets/admin-qr.js?v=20261123hq"></script><script src="assets/stats-report.js?v=20261111mm"></script>
 </body>
 </html>

diff --git a/owner.html b/owner.html
@@ -53,6 +53,6 @@
 <nav class="footer-towns" aria-label="Towns"><h4>Towns</h4><ul><li><a href="city/bermuda-dunes/">Bermuda Dunes</a></li><li><a href="city/cathedral-city/">Cathedral City</a></li><li><a href="city/coachella/">Coachella</a></li><li><a href="city/desert-hot-springs/">Desert Hot Springs</a></li><li><a href="city/indian-wells/">Indian Wells</a></li><li><a href="city/indio/">Indio</a></li><li><a href="city/la-quinta/">La Quinta</a></li><li><a href="city/palm-desert/">Palm Desert</a></li><li><a href="city/palm-springs/">Palm Springs</a></li><li><a href="city/rancho-mirage/">Rancho Mirage</a></li><li><a href="city/thousand-palms/">Thousand Palms</a></li></ul></nav>
 <div class="footer-base"><span>&copy; 2026 Coachella Valley Spotlight, a brand of MoreViews Pro LLC. Made in the desert.</span><span><a href="legal#privacy">Privacy</a> &middot; <a href="legal#terms">Terms</a> &middot; <a href="legal#disclaimer">Disclaimer</a></span></div>
 </div></footer>
-<script src="data/directory.js"></script><script src="data/routes.js?v=20261118q"></script><script src="assets/app.js?v=20261126qr"></script><script src="assets/owner.js?v=20261122mq"></script>
+<script src="data/directory.js"></script><script src="data/routes.js?v=20261127r"></script><script src="assets/app.js?v=20261126qr"></script><script src="assets/owner.js?v=20261122mq"></script>
 </body>
 </html>

diff --git a/mailing-calendar.html b/mailing-calendar.html
@@ -82,7 +82,7 @@
 <div class="footer-base"><span>&copy; 2026 Coachella Valley Spotlight, a brand of MoreViews Pro LLC. Made in the desert.</span><span><a href="legal#privacy">Privacy</a> &middot; <a href="legal#terms">Terms</a> &middot; <a href="legal#disclaimer">Disclaimer</a></span></div>
 </div></footer>
 <script src="data/events.js"></script><script src="data/feed-events.js"></script><script src="data/deals.js"></script><script src="data/news.js"></script><script src="data/headlines.js"></script><script src="data/directory.js"></script><script src="assets/app.js?v=20261126qr"></script>
-<script src="data/mailings.js?v=20261121fh"></script><script src="data/formats.js?v=20261122pl"></script><script src="data/hidden-routes.js?v=20261118q"></script>
+<script src="data/mailings.js?v=20261127r"></script><script src="data/formats.js?v=20261122pl"></script><script src="data/hidden-routes.js?v=20261118q"></script>
 <script>
 (function () {
   var API = "https://local-spotlight-reservations.toddstpierre.workers.dev", grid = document.getElementById("mc-grid"), M = window.CVS_MAILINGS || [];

diff --git a/pricing.html b/pricing.html
@@ -122,7 +122,7 @@
 <div class="footer-base"><span>&copy; 2026 Coachella Valley Spotlight, a brand of MoreViews Pro LLC. Made in the desert.</span><span><a href="legal#privacy">Privacy</a> &middot; <a href="legal#terms">Terms</a> &middot; <a href="legal#disclaimer">Disclaimer</a></span></div>
 </div></footer>
 <script src="data/events.js"></script><script src="data/feed-events.js"></script><script src="data/deals.js"></script><script src="data/news.js"></script><script src="data/headlines.js"></script><script src="data/directory.js"></script><script src="assets/app.js?v=20261126qr"></script>
-<script src="data/mailings.js?v=20261121fh"></script><script src="data/formats.js?v=20261122pl"></script><script src="data/hidden-routes.js?v=20261118q"></script>
+<script src="data/mailings.js?v=20261127r"></script><script src="data/formats.js?v=20261122pl"></script><script src="data/hidden-routes.js?v=20261118q"></script>
 <script>
 (function () {
   var API = "https://local-spotlight-reservations.toddstpierre.workers.dev", M = (window.CVS_MAILINGS || []).slice();

diff --git a/reserve.html b/reserve.html
@@ -173,7 +173,7 @@
 <div class="footer-base"><span>&copy; 2026 Coachella Valley Spotlight, a brand of MoreViews Pro LLC. Made in the desert.</span><span><a href="legal#privacy">Privacy</a> &middot; <a href="legal#terms">Terms</a> &middot; <a href="legal#disclaimer">Disclaimer</a></span></div>
 </div></footer>
 <script src="data/events.js"></script><script src="data/feed-events.js"></script><script src="data/deals.js"></script><script src="data/news.js"></script><script src="data/headlines.js"></script><script src="data/directory.js"></script><script src="assets/app.js?v=20261126qr"></script>
-<script src="data/mailings.js?v=20261121fh"></script><script src="data/formats.js?v=20261122pl"></script><script src="data/hidden-routes.js?v=20261118q"></script>
+<script src="data/mailings.js?v=20261127r"></script><script src="data/formats.js?v=20261122pl"></script><script src="data/hidden-routes.js?v=20261118q"></script>
 <script src="assets/picker.js?v=20261122pl"></script>
 <script src="assets/quick-hold.js?v=20261121tr"></script>
 <script>

diff --git a/advertise.html b/advertise.html
@@ -257,6 +257,6 @@
   sec.hidden = false;
 })();
 </script>
-<script src="data/mailings.js?v=20261121fh"></script><script src="data/formats.js?v=20261122pl"></script><script src="data/hidden-routes.js?v=20261118q"></script>
+<script src="data/mailings.js?v=20261127r"></script><script src="data/formats.js?v=20261122pl"></script><script src="data/hidden-routes.js?v=20261118q"></script>
 </body>
 </html>
